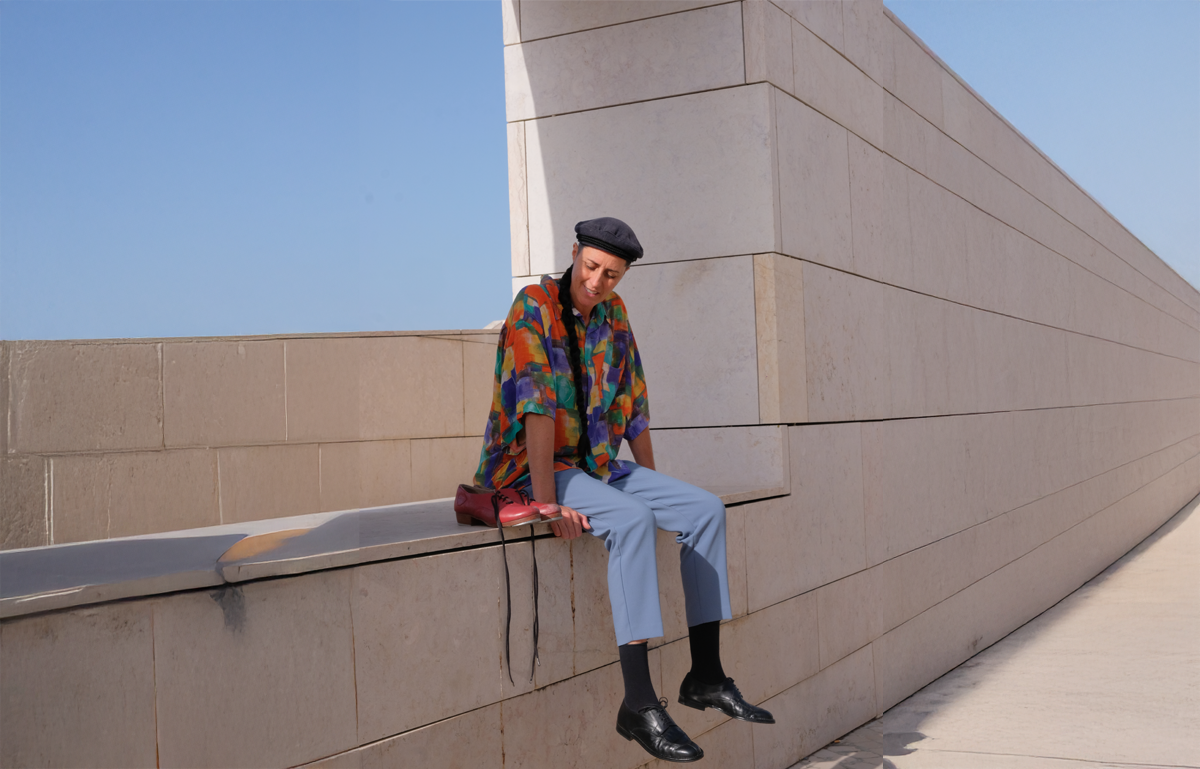
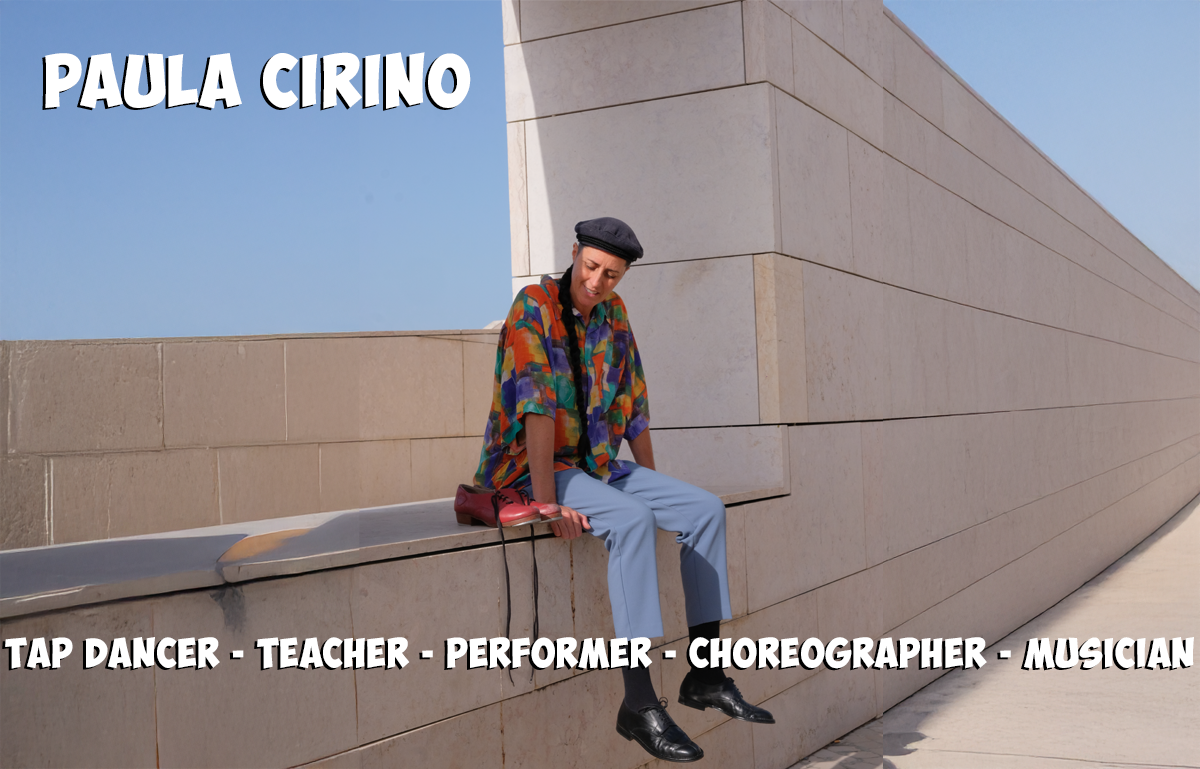
updates varios

Changed region(s): [[0.0, 0.8114, 1.0, 0.8739], [0.0308, 0.0624, 0.4008, 0.156]]

diff --git a/index.html b/index.html
@@ -125,8 +125,8 @@ https://templatemo.com/tm-571-hexashop
                     <div class="left-content">
                         <div class="thumb">            
                             <div class="inner-content zrq-text-glow">
-                                <h4>Paula Cirino</h4>
-                                <span>Tap dancer, Teacher, Performer, Choreographer, Musician</span>
+                                <!-- <h4>Paula Cirino</h4> -->
+                                <!-- <span>Tap dancer, Teacher, Performer, Choreographer, Musician</span> -->
                                 <!-- <div class="main-border-button">
                                     <a href="#">Purchase Now!</a>
                                 </div> -->
@@ -225,7 +225,7 @@ https://templatemo.com/tm-571-hexashop
                         <h4>Aulas de Sapateado</h4>
                         <!-- <p>Lorem ipsum dolor sit amet, consecteturti adipiscing elit, sed do eiusmod temp incididunt ut
                             labore, et dolore quis ipsum suspend.</p> -->
-                        <img class="zrq-cursor" src="assets/images/paula4.jpg" data-full="assets/images/paula4.jpg"
+                        <img class="zrq-cursor" src="assets/images/aulas de sapateado.jpg" data-full="assets/images/paula4.jpg"
                             alt="">
                     </div>
                 </div>
@@ -243,7 +243,7 @@ https://templatemo.com/tm-571-hexashop
                         <h4>Aulas de OldStyle Jazz</h4>
                         <!-- <p>Lorem ipsum dolor sit amet, consecteturti adipiscing elit, sed do eiusmod temp incididunt ut
                             labore, et dolore quis ipsum suspend.</p> -->
-                        <img class="zrq-cursor" src="assets/images/paula_joana.jpg"
+                        <img class="zrq-cursor" src="assets/images/paula4.jpg"
                             data-full="assets/images/paula_joana.jpg" alt="">
                     </div>
                 </div>
@@ -306,24 +306,52 @@ https://templatemo.com/tm-571-hexashop
                 <div class="col-lg-12">
                     <div class="section-heading">
                         <h2>Projectos</h2>
-                        <p>Neste momento tenho 3 projetos como bailarina e música de Tap Dance:</p>
-                        <p>Projeto Improesia</p>
-                        <p>Paula Cirino Quartet Band</p>
-                        <p>The Invisible Tuba with Dancers</p>
+                        <p>Neste momento tenho estes projetos como bailarina e música de Tap Dance:</p>
+                        <p>Invisible Tuba and Dancers</p>
+                        <p>Jazz Me show com The Jazz Shakers</p>
+                        <p>Paula Cirino Quartet</p>
+                        <p>Tap Dance and poetry - Improesia</p>
                     </div>
                 </div>
             </div>
-            <div class="row">
-                <!-- <div class="col-lg-12 zrq-center zrq-m2 zrq-w100"> -->
+            <!-- <div class="row">
+                <div class="col-lg-12 zrq-center zrq-m2 zrq-w100">
                 <div class="zrq-center zrq-w100">
                     <img class="zrq-w50 zrq-cursor" src="assets/images/rhythm_notes_quartet.jpg"
                         data-full="assets/images/rhythm_notes_quartet.jpg" alt="">
+                </div>
+            </div> -->
+                   <div class="row">
+                <!-- <div class="col-lg-12 zrq-center zrq-m2 zrq-w50"> -->
+                <div class="zrq-center zrq-p2 zrq-video">
+                    <iframe src="https://www.youtube.com/embed/_j87RtWx1Rk?si=JkcA_HoYhneoQl7Z"
+                        title="YouTube video player" frameborder="0"
+                        allow="accelerometer; autoplay; clipboard-write; encrypted-media; gyroscope; picture-in-picture; web-share"
+                        referrerpolicy="strict-origin-when-cross-origin" allowfullscreen></iframe>
                 </div>
             </div>
             <div class="row">
                 <!-- <div class="col-lg-12 zrq-center zrq-m2 zrq-w50"> -->
                 <div class="zrq-center zrq-p2 zrq-video">
-                    <iframe src="https://www.youtube.com/embed/hyNeOJSvHCA?si=OWnKA6gzlsO3kKIi"
+                    <iframe src="https://www.youtube.com/embed/VivpyDKhbDQ?si=ioj_ow-cCIwZLa8l"
+                        title="YouTube video player" frameborder="0"
+                        allow="accelerometer; autoplay; clipboard-write; encrypted-media; gyroscope; picture-in-picture; web-share"
+                        referrerpolicy="strict-origin-when-cross-origin" allowfullscreen></iframe>
+                </div>
+            </div>
+            <div class="row">
+                <!-- <div class="col-lg-12 zrq-center zrq-m2 zrq-w50"> -->
+                <div class="zrq-center zrq-p2 zrq-video">
+                    <iframe src="https://www.youtube.com/embed/lIA-nz-5t1w?si=k-f2NVnQjZLhl8Q0"
+                        title="YouTube video player" frameborder="0"
+                        allow="accelerometer; autoplay; clipboard-write; encrypted-media; gyroscope; picture-in-picture; web-share"
+                        referrerpolicy="strict-origin-when-cross-origin" allowfullscreen></iframe>
+                </div>
+            </div>                        
+            <div class="row">
+                <!-- <div class="col-lg-12 zrq-center zrq-m2 zrq-w50"> -->
+                <div class="zrq-center zrq-p2 zrq-video">
+                    <iframe src="https://www.youtube.com/embed/cgLqgFASqPc?si=3PBetL0kPuVocU5V"
                         title="YouTube video player" frameborder="0"
                         allow="accelerometer; autoplay; clipboard-write; encrypted-media; gyroscope; picture-in-picture; web-share"
                         referrerpolicy="strict-origin-when-cross-origin" allowfullscreen></iframe>
